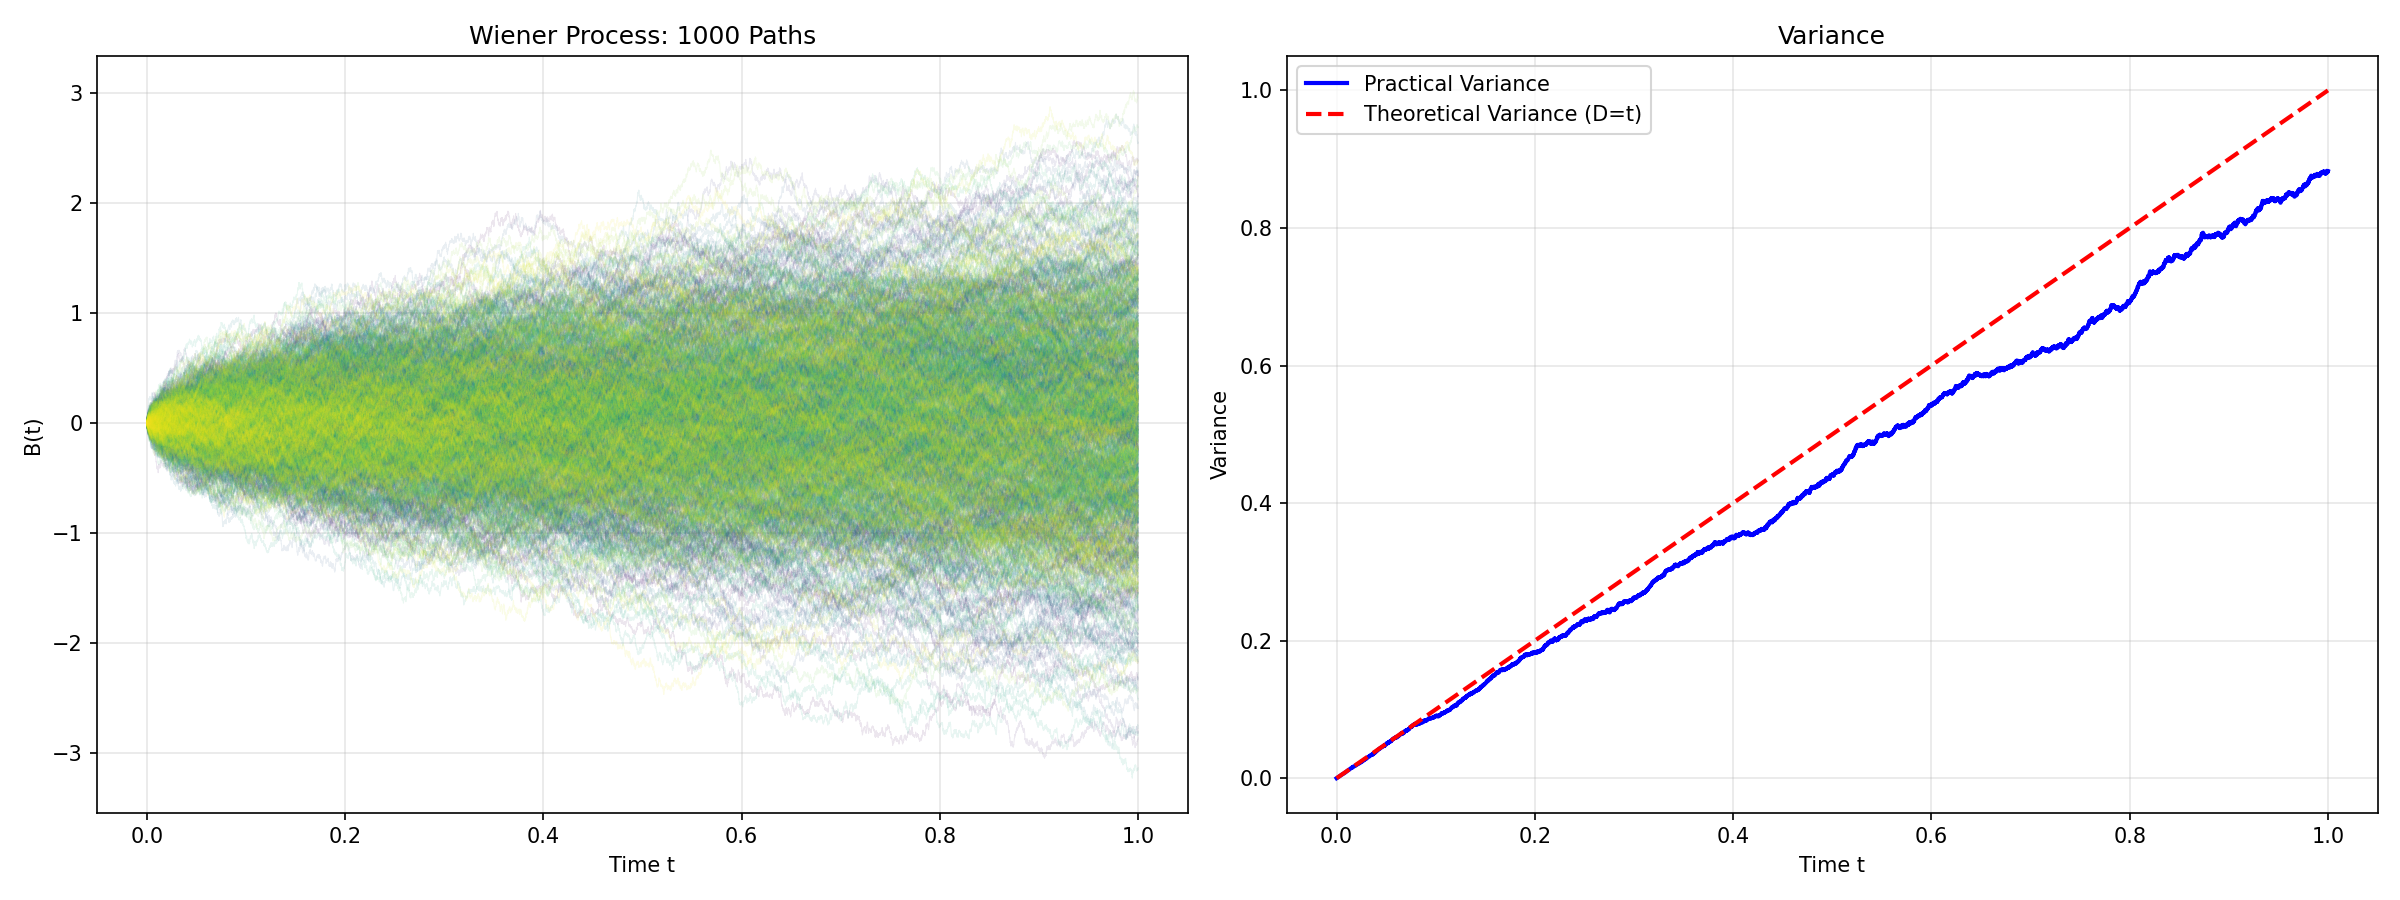
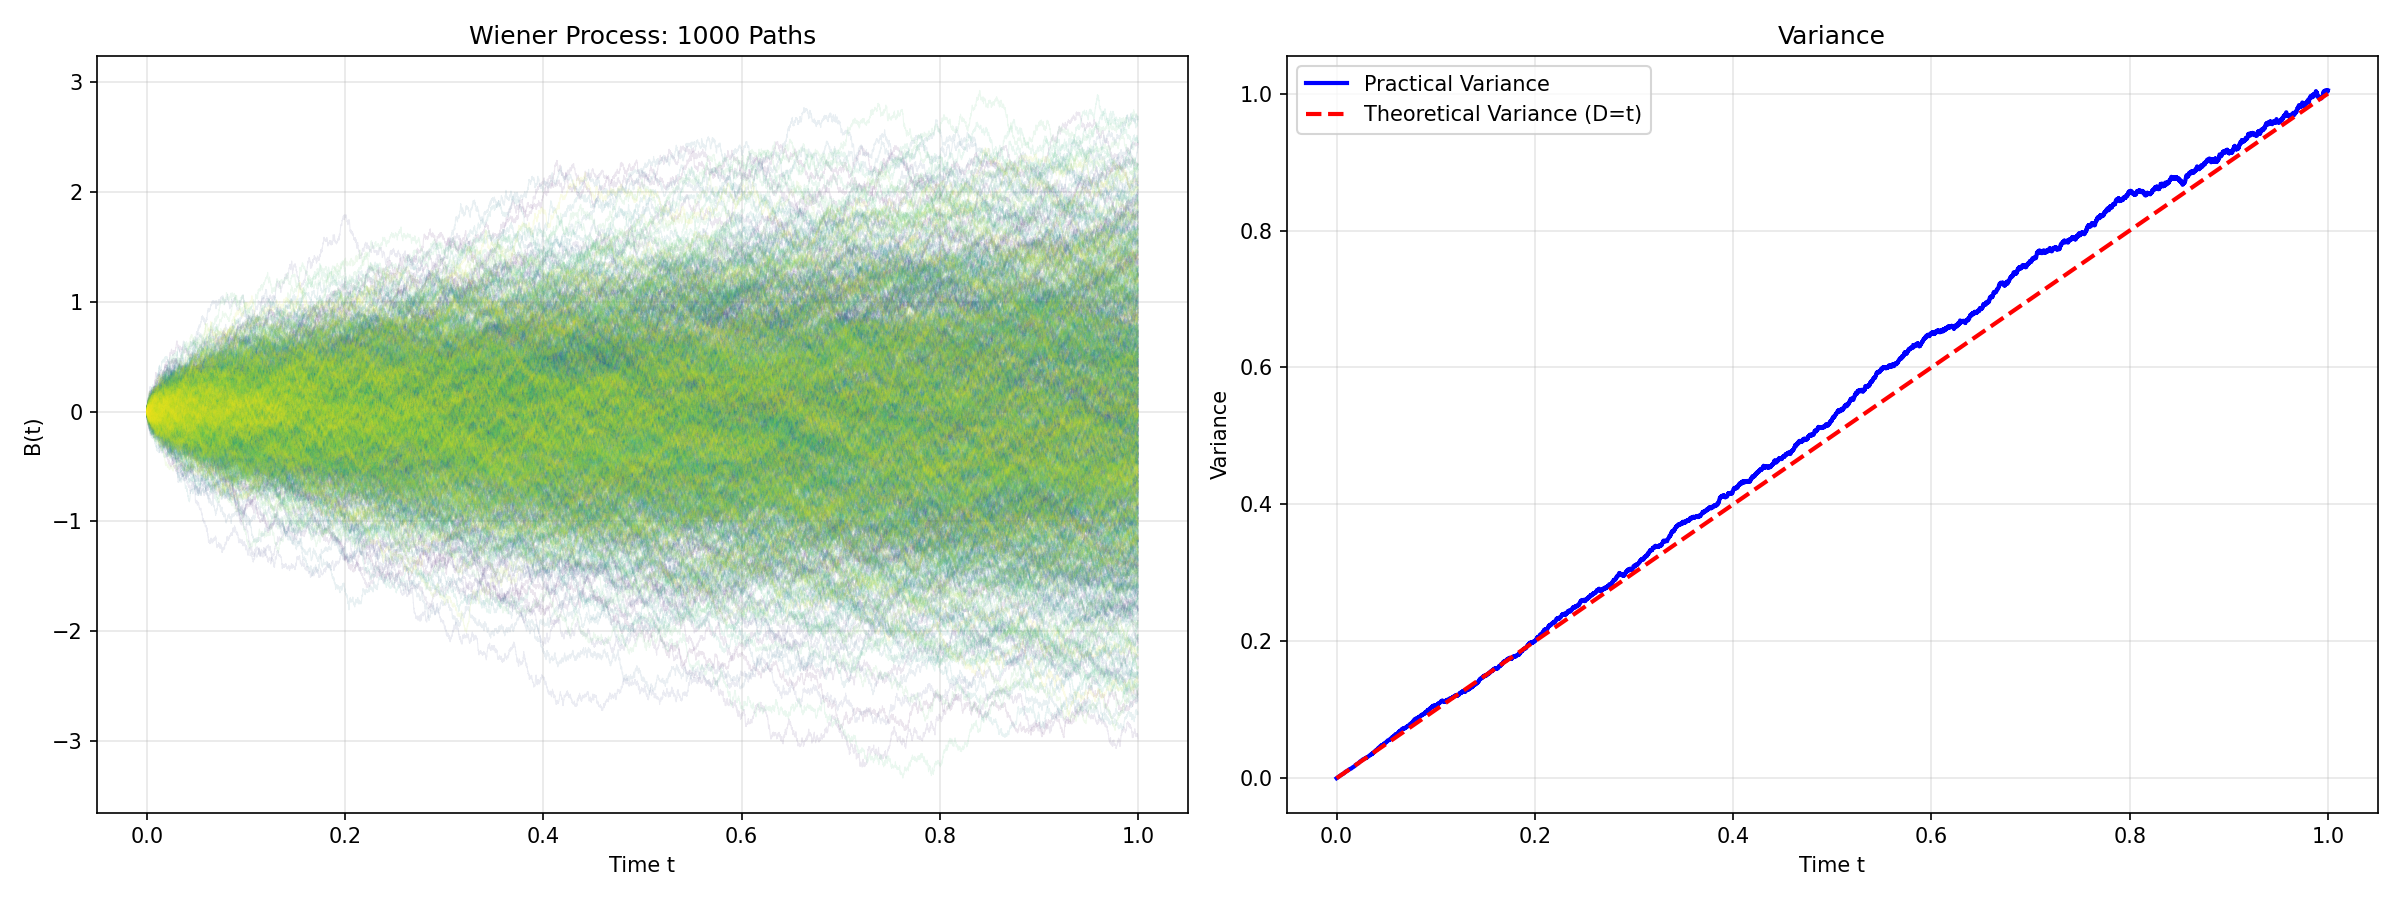
change wiener seed

diff --git a/prac_hw/wiener-process/wiener.py b/prac_hw/wiener-process/wiener.py
@@ -2,7 +2,7 @@
 import numpy as np
 import matplotlib.pyplot as plt
 
-SEED = 42
+SEED = 777
 
 T = 1.0
 DELTA = 0.0001
